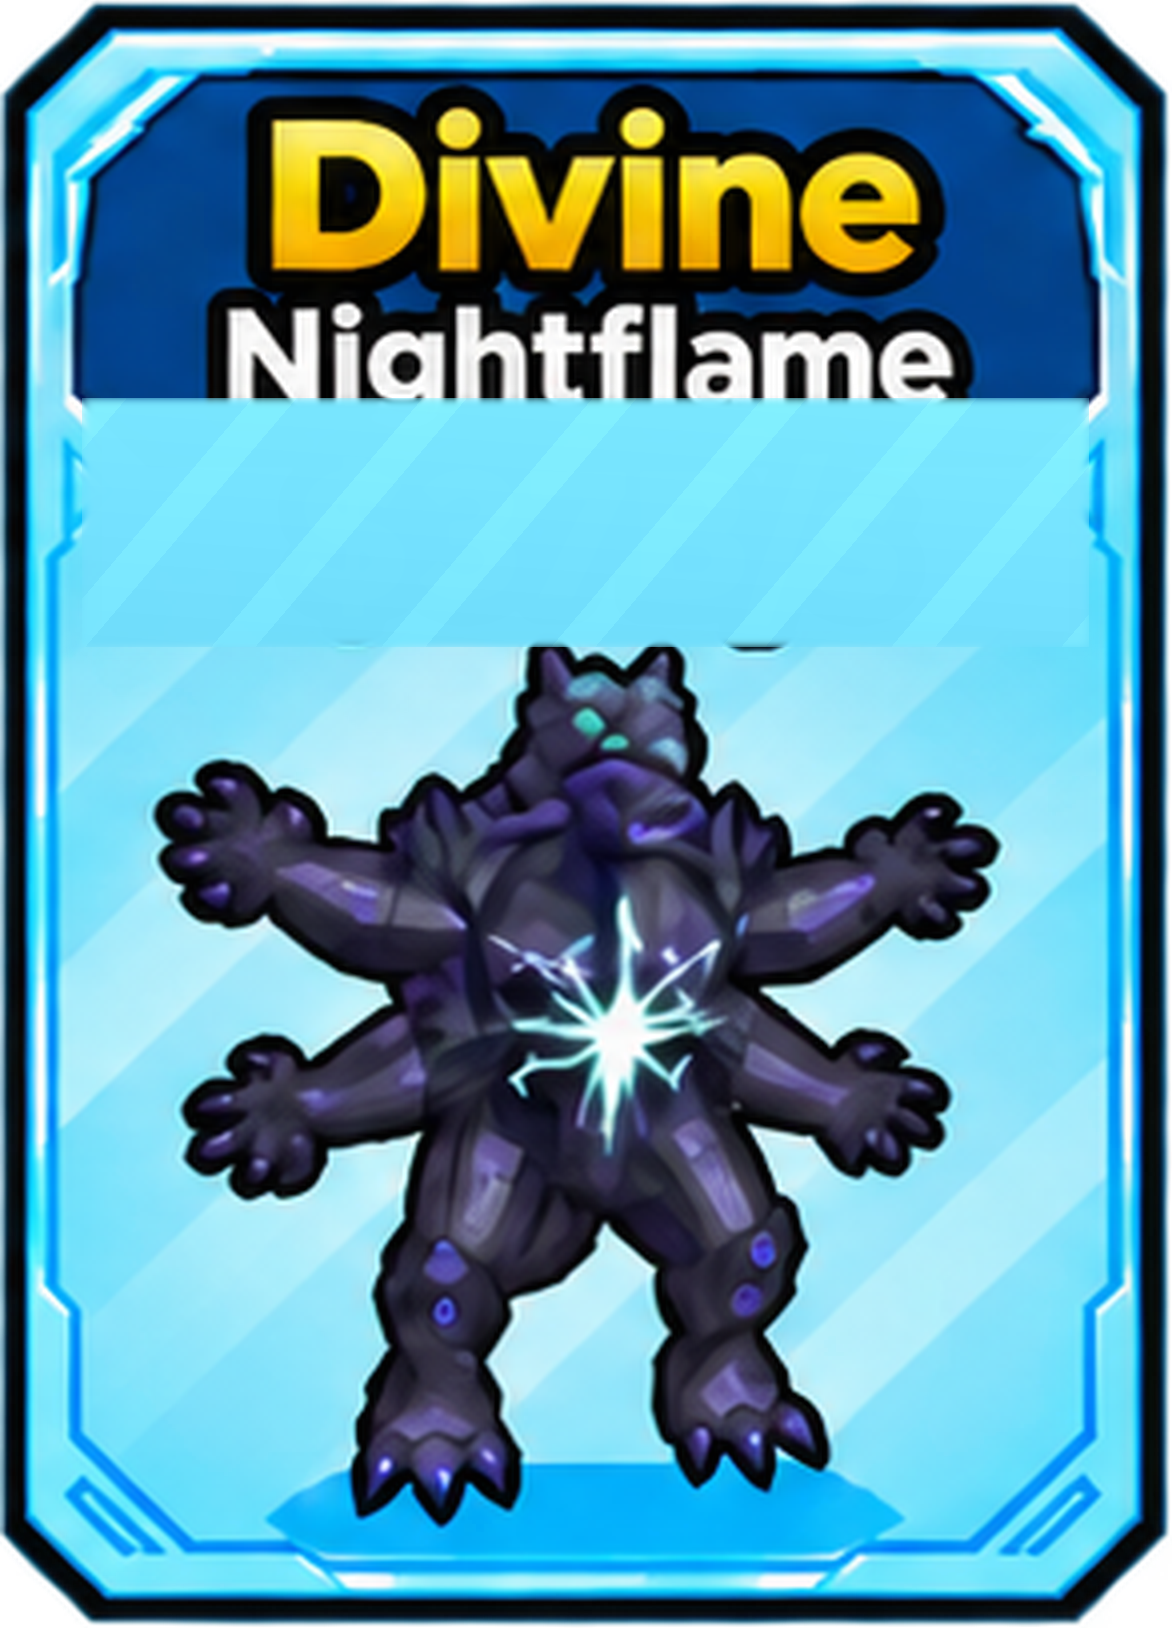
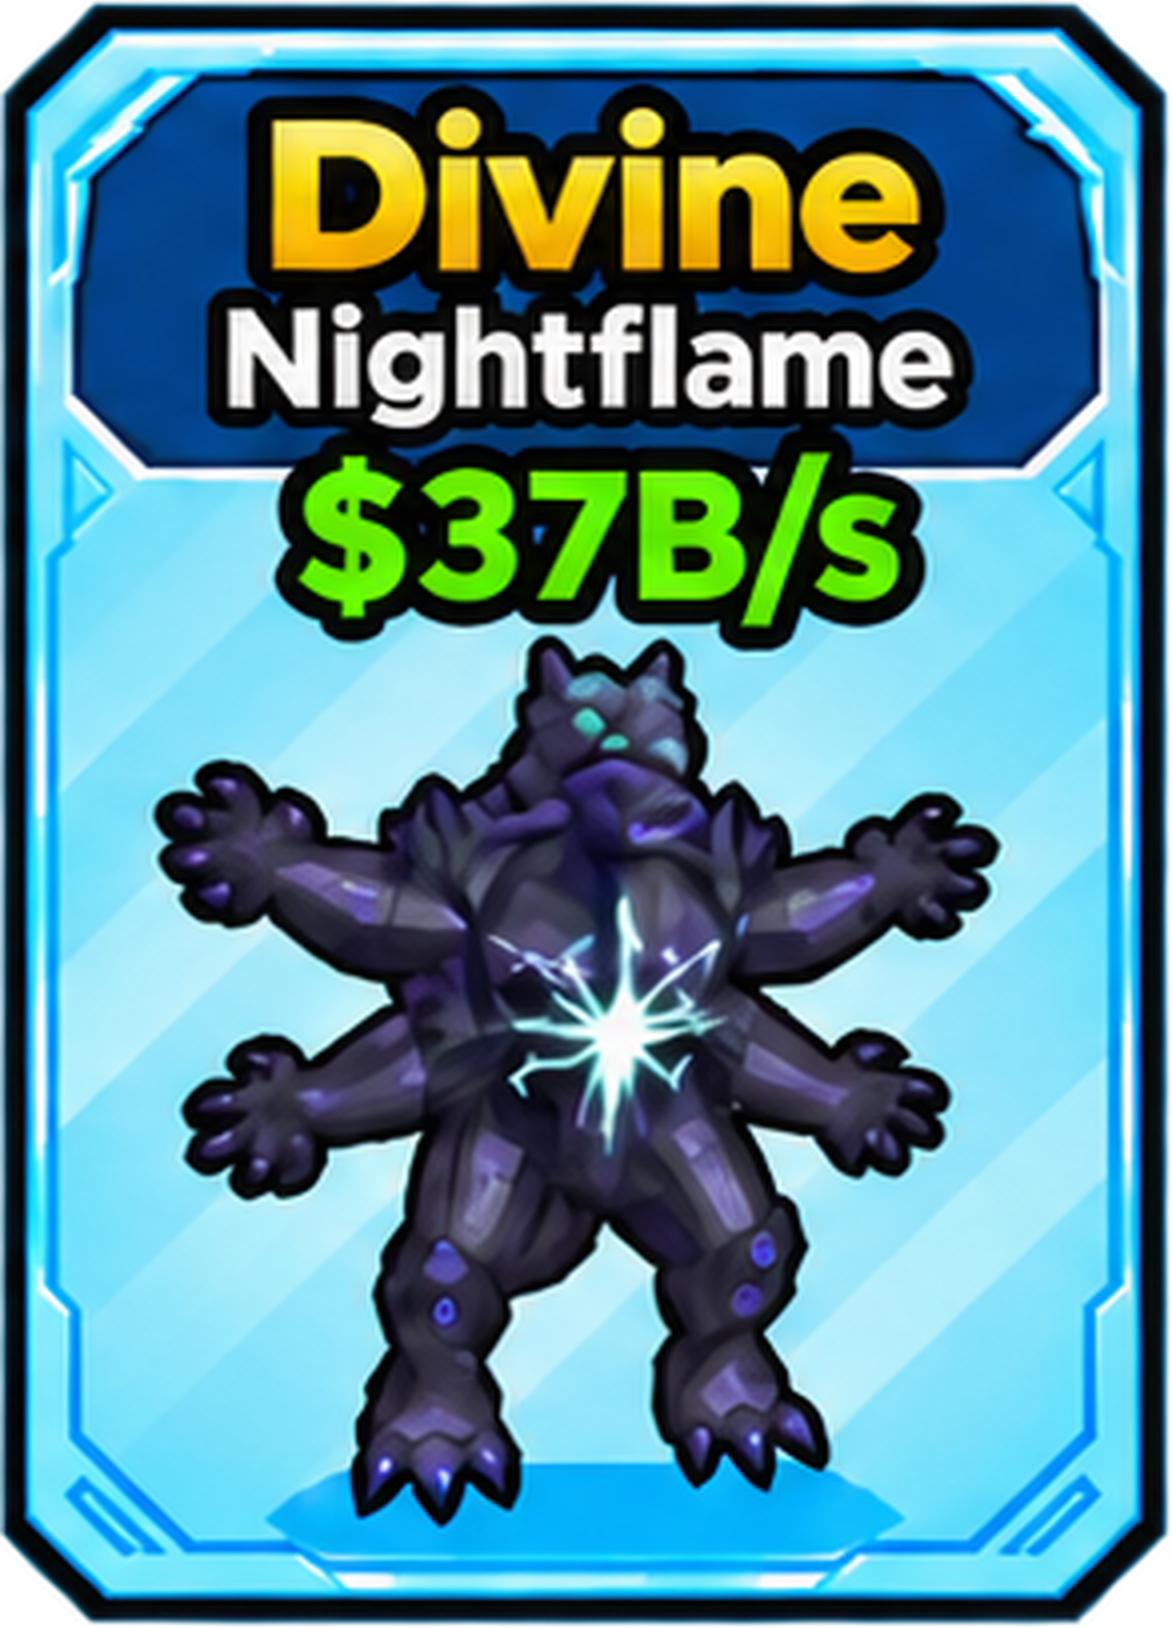
tyy

Changed region(s): [[0.0614, 0.2457, 0.9522, 0.3993]]

diff --git a/index.html b/index.html
@@ -4,7 +4,7 @@
 <meta charset="utf-8">
 <meta name="viewport" content="width=device-width,initial-scale=1">
 <meta http-equiv="Cache-Control" content="no-cache, no-store, must-revalidate">
-<title>Steal An Egg Overlay V5.21 MATCH BG PRICE FIX</title>
+<title>Steal An Egg Overlay V5.22 TEXT ERASER</title>
 <style>
 *{box-sizing:border-box}
 html,body{margin:0;width:100%;height:100%;background:transparent!important;overflow:hidden}
@@ -146,6 +146,36 @@ body{font-family:Arial,Helvetica,sans-serif}
 }
 /* Chỉ che dòng tiền CŨ trên giao diện. File PNG gốc không bị chỉnh sửa. */
 .price-cover{display:none!important;}
+
+.price-eraser{
+  position:absolute;
+  left:2.1%;
+  right:2.1%;
+  top:24.7%;
+  height:14.6%;
+  z-index:30;
+  display:flex;
+  align-items:center;
+  justify-content:center;
+  overflow:visible;
+  color:#9FE8F7;
+  font-family:"Arial Black","DejaVu Sans",Arial,sans-serif;
+  font-weight:1000;
+  font-size:16.8cqw;
+  line-height:.94;
+  letter-spacing:-.055em;
+  white-space:nowrap;
+  -webkit-text-stroke:1.15cqw #9FE8F7;
+  paint-order:stroke fill;
+  text-shadow:
+    0 0 0 #9FE8F7,
+    .20cqw 0 0 #9FE8F7,
+    -.20cqw 0 0 #9FE8F7,
+    0 .20cqw 0 #9FE8F7,
+    0 -.20cqw 0 #9FE8F7;
+  pointer-events:none;
+}
+
 .price-text{
   position:absolute;
   left:2.5%;
@@ -164,7 +194,7 @@ body{font-family:Arial,Helvetica,sans-serif}
   line-height:.94;
   letter-spacing:-.035em;
   white-space:nowrap;
-  -webkit-text-stroke:.42cqw #050505;
+  -webkit-text-stroke:.44cqw #050505;
   paint-order:stroke fill;
   text-shadow:none!important;
   transform-origin:center center;
@@ -253,7 +283,8 @@ body{font-family:Arial,Helvetica,sans-serif}
           <div class="pet-aura" style="--pet-mask:url('aura_masks/kitsune.png')"></div>
         </div>
         <div class="qty-badge" data-qty></div>
-        <div class="price-cover" aria-hidden="true"></div><div class="price-text" data-price></div>
+        <div class="price-cover" aria-hidden="true"></div><div class="price-eraser">$123B/s</div>
+        <div class="price-text" data-price></div>
       </div>
     
     </div>
@@ -266,7 +297,8 @@ body{font-family:Arial,Helvetica,sans-serif}
           <div class="pet-aura" style="--pet-mask:url('aura_masks/luminous_cthulhu.png')"></div>
         </div>
         <div class="qty-badge" data-qty></div>
-        <div class="price-cover" aria-hidden="true"></div><div class="price-text" data-price></div>
+        <div class="price-cover" aria-hidden="true"></div><div class="price-eraser">$82B/s</div>
+        <div class="price-text" data-price></div>
       </div>
     
     </div>
@@ -279,7 +311,8 @@ body{font-family:Arial,Helvetica,sans-serif}
           <div class="pet-aura" style="--pet-mask:url('aura_masks/archangel.png')"></div>
         </div>
         <div class="qty-badge" data-qty></div>
-        <div class="price-cover" aria-hidden="true"></div><div class="price-text" data-price></div>
+        <div class="price-cover" aria-hidden="true"></div><div class="price-eraser">$63B/s</div>
+        <div class="price-text" data-price></div>
       </div>
     
     </div>
@@ -292,7 +325,8 @@ body{font-family:Arial,Helvetica,sans-serif}
           <div class="pet-aura" style="--pet-mask:url('aura_masks/aetheron.png')"></div>
         </div>
         <div class="qty-badge" data-qty></div>
-        <div class="price-cover" aria-hidden="true"></div><div class="price-text" data-price></div>
+        <div class="price-cover" aria-hidden="true"></div><div class="price-eraser">$87B/s</div>
+        <div class="price-text" data-price></div>
       </div>
     
     </div>
@@ -305,7 +339,8 @@ body{font-family:Arial,Helvetica,sans-serif}
           <div class="pet-aura" style="--pet-mask:url('aura_masks/world_burner_cthulhu.png')"></div>
         </div>
         <div class="qty-badge" data-qty></div>
-        <div class="price-cover" aria-hidden="true"></div><div class="price-text" data-price></div>
+        <div class="price-cover" aria-hidden="true"></div><div class="price-eraser">$63B/s</div>
+        <div class="price-text" data-price></div>
       </div>
     
     </div>
@@ -318,7 +353,8 @@ body{font-family:Arial,Helvetica,sans-serif}
           <div class="pet-aura" style="--pet-mask:url('aura_masks/shattered_colossus.png')"></div>
         </div>
         <div class="qty-badge" data-qty></div>
-        <div class="price-cover" aria-hidden="true"></div><div class="price-text" data-price></div>
+        <div class="price-cover" aria-hidden="true"></div><div class="price-eraser">$44B/s</div>
+        <div class="price-text" data-price></div>
       </div>
     
     </div>
@@ -331,7 +367,8 @@ body{font-family:Arial,Helvetica,sans-serif}
           <div class="pet-aura" style="--pet-mask:url('aura_masks/nightflame.png')"></div>
         </div>
         <div class="qty-badge" data-qty></div>
-        <div class="price-cover" aria-hidden="true"></div><div class="price-text" data-price></div>
+        <div class="price-cover" aria-hidden="true"></div><div class="price-eraser">$37B/s</div>
+        <div class="price-text" data-price></div>
       </div>
     
     </div>
@@ -350,7 +387,8 @@ body{font-family:Arial,Helvetica,sans-serif}
           <div class="pet-aura" style="--pet-mask:url('aura_masks/cthulhu.png')"></div>
         </div>
         <div class="qty-badge" data-qty></div>
-        <div class="price-cover" aria-hidden="true"></div><div class="price-text" data-price></div>
+        <div class="price-cover" aria-hidden="true"></div><div class="price-eraser">$37B/s</div>
+        <div class="price-text" data-price></div>
       </div>
     
     </div>
@@ -363,7 +401,8 @@ body{font-family:Arial,Helvetica,sans-serif}
           <div class="pet-aura" style="--pet-mask:url('aura_masks/mecha_dreadscale.png')"></div>
         </div>
         <div class="qty-badge" data-qty></div>
-        <div class="price-cover" aria-hidden="true"></div><div class="price-text" data-price></div>
+        <div class="price-cover" aria-hidden="true"></div><div class="price-eraser">$274B/s</div>
+        <div class="price-text" data-price></div>
       </div>
     
     </div></div></div>

diff --git a/config.js b/config.js
@@ -1,1 +1,1 @@
-window.SAE_CONFIG={"version":"5.21-match-bg-price-fix","cards":[{"id":"kitsune","name":"Kitsune","base":1800000000,"box":[22,93,285,405],"dynamic":true},{"id":"luminous_cthulhu","name":"Luminous Cthulhu","base":13000000000,"box":[320,92,292,407],"dynamic":true},{"id":"archangel","name":"ArchAngel","base":5000000000,"box":[625,92,286,407],"dynamic":true},{"id":"aetheron","name":"Aetheron","base":6900000000,"box":[922,92,293,407],"dynamic":true},{"id":"world_burner_cthulhu","name":"World Burner Cthulhu","base":5000000000,"box":[1224,92,294,407],"dynamic":true},{"id":"shattered_colossus","name":"Shattered Colossus","base":3500000000,"box":[21,515,286,407],"dynamic":true},{"id":"nightflame","name":"Nightflame","base":3000000000,"box":[320,516,293,407],"dynamic":true},{"id":"luminous_eggs","name":"Luminous Eggs","base":null,"box":[625,516,285,406],"dynamic":false},{"id":"cthulhu","name":"Cthulhu","base":5000000000,"box":[923,516,292,406],"dynamic":true},{"id":"mecha_dreadscale","name":"Mecha Dreadscale","base":4000000000,"box":[1230,516,285,406],"dynamic":true}],"mutations":{"silver":{"label":"Silver","multiplier":1.2},"golden":{"label":"Golden","multiplier":2.5},"rainbow":{"label":"Rainbow","multiplier":3.5},"bloom":{"label":"Bloom","multiplier":1.25},"spirit_bloom":{"label":"Spirit Bloom","multiplier":2.5},"parasite":{"label":"Parasite","multiplier":3.0},"fractured":{"label":"Fractured","multiplier":2.75}},"backend":"https://steal-an-egg-overlay-backend.leducho1900.workers.dev","room":"sae_421045db4089999b697c52d464c44d3a"};
+window.SAE_CONFIG={"version":"5.22-text-eraser","cards":[{"id":"kitsune","name":"Kitsune","base":1800000000,"box":[22,93,285,405],"dynamic":true},{"id":"luminous_cthulhu","name":"Luminous Cthulhu","base":13000000000,"box":[320,92,292,407],"dynamic":true},{"id":"archangel","name":"ArchAngel","base":5000000000,"box":[625,92,286,407],"dynamic":true},{"id":"aetheron","name":"Aetheron","base":6900000000,"box":[922,92,293,407],"dynamic":true},{"id":"world_burner_cthulhu","name":"World Burner Cthulhu","base":5000000000,"box":[1224,92,294,407],"dynamic":true},{"id":"shattered_colossus","name":"Shattered Colossus","base":3500000000,"box":[21,515,286,407],"dynamic":true},{"id":"nightflame","name":"Nightflame","base":3000000000,"box":[320,516,293,407],"dynamic":true},{"id":"luminous_eggs","name":"Luminous Eggs","base":null,"box":[625,516,285,406],"dynamic":false},{"id":"cthulhu","name":"Cthulhu","base":5000000000,"box":[923,516,292,406],"dynamic":true},{"id":"mecha_dreadscale","name":"Mecha Dreadscale","base":4000000000,"box":[1230,516,285,406],"dynamic":true}],"mutations":{"silver":{"label":"Silver","multiplier":1.2},"golden":{"label":"Golden","multiplier":2.5},"rainbow":{"label":"Rainbow","multiplier":3.5},"bloom":{"label":"Bloom","multiplier":1.25},"spirit_bloom":{"label":"Spirit Bloom","multiplier":2.5},"parasite":{"label":"Parasite","multiplier":3.0},"fractured":{"label":"Fractured","multiplier":2.75}},"backend":"https://steal-an-egg-overlay-backend.leducho1900.workers.dev","room":"sae_421045db4089999b697c52d464c44d3a"};

diff --git a/control.html b/control.html
@@ -3,7 +3,7 @@
 <head>
 <meta charset="utf-8"><meta name="viewport" content="width=device-width,initial-scale=1">
 <meta http-equiv="Cache-Control" content="no-cache, no-store, must-revalidate">
-<title>Steal An Egg Control V5.21</title>
+<title>Steal An Egg Control V5.22</title>
 <style>
 *{box-sizing:border-box}
 body{margin:0;background:#0b0d11;color:#fff;font-family:Arial,Helvetica,sans-serif}
@@ -49,7 +49,7 @@ button{border:0;border-radius:10px;padding:10px 13px;font-weight:900;cursor:poin
 @media(max-width:800px){.grid{grid-template-columns:1fr}.muts{grid-template-columns:repeat(2,1fr)}}
 </style>
 </head><body><main>
-<h1>🥚 Steal An Egg Control V5.21 — FIXED</h1>
+<h1>🥚 Steal An Egg Control V5.22 — FIXED</h1>
 <div class="sub"><span class="syncstatus" id="syncStatus">● Đang kiểm tra D1...</span> 
 Weight nhập <b>1–1000</b>. <b>Weight 1 = đúng tiền gốc</b>; tăng Weight thì tự nhân theo đường cong size.
 Mutation cộng bonus theo hệ số. Weight/Mutation tự tính tiền. Đồng bộ qua Cloudflare D1, không dùng Cache API. Weight/Mutation/Bật-Tắt/x2–x10 cập nhật chung một state; x1 không hiện nhãn, Luminous Eggs không có nhãn số lượng.
@@ -481,7 +481,7 @@ allOn.onclick=()=>{for(const c of CFG.cards)state.cards[c.id].enabled=true;saveA
 allOff.onclick=()=>{for(const c of CFG.cards)state.cards[c.id].enabled=false;saveAndPublish()};
 reset.onclick=()=>{for(const c of CFG.cards){state.cards[c.id].weight=1;state.cards[c.id].mutations=[];state.cards[c.id].qty=1}saveAndPublish()};
 copyLink.onclick=async()=>{
- const u=new URL("index.html?v=521",location.href).href;
+ const u=new URL("index.html?v=522",location.href).href;
  try{await navigator.clipboard.writeText(u);copyLink.textContent="ĐÃ COPY";setTimeout(()=>copyLink.textContent="Copy Overlay Link",1200)}
  catch(_e){prompt("Copy link Overlay:",u)}
 };
